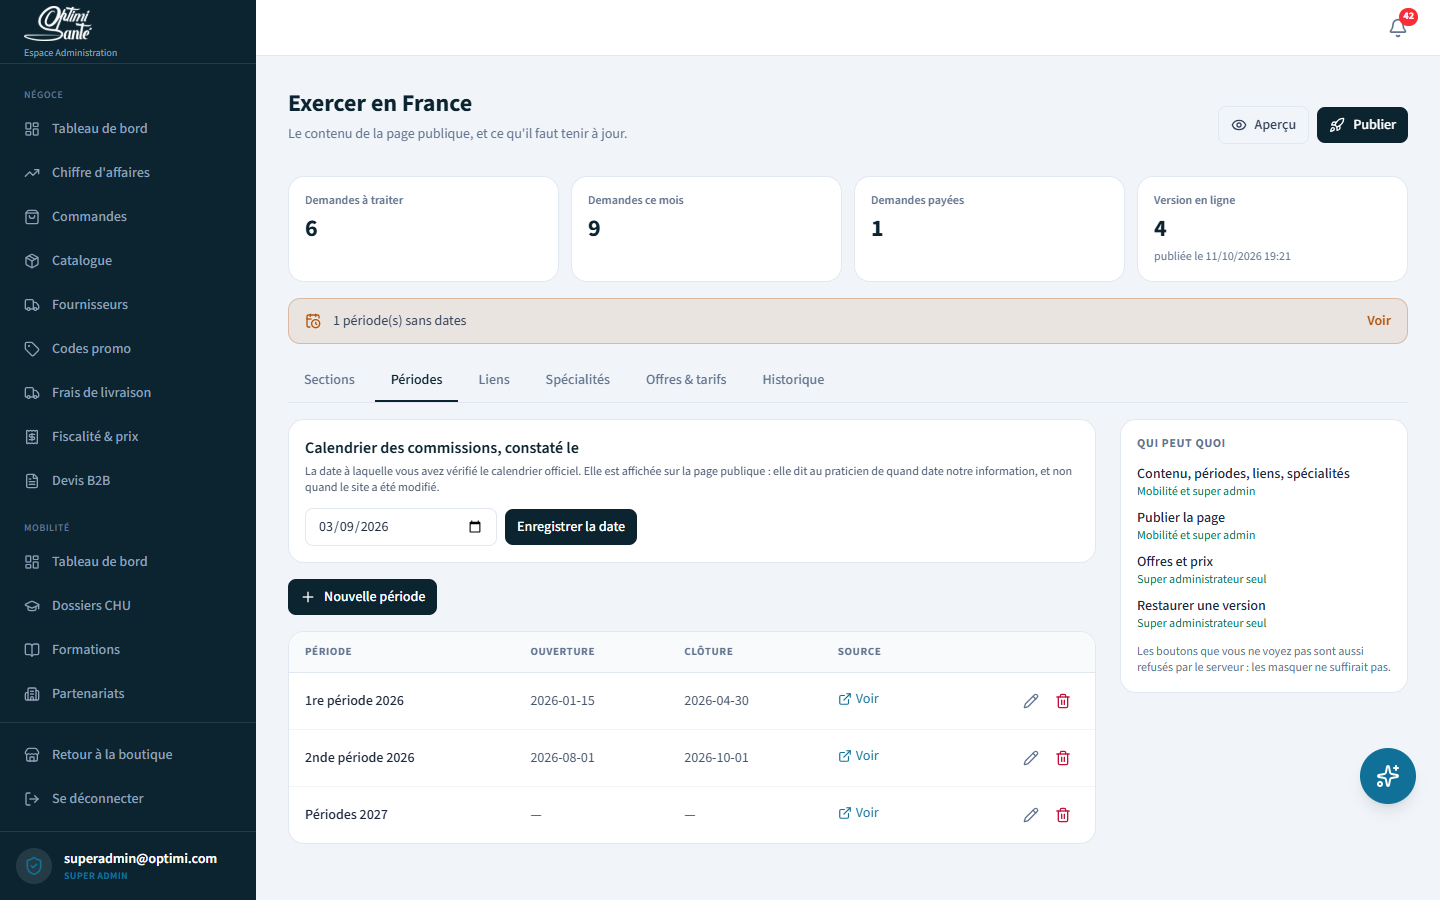
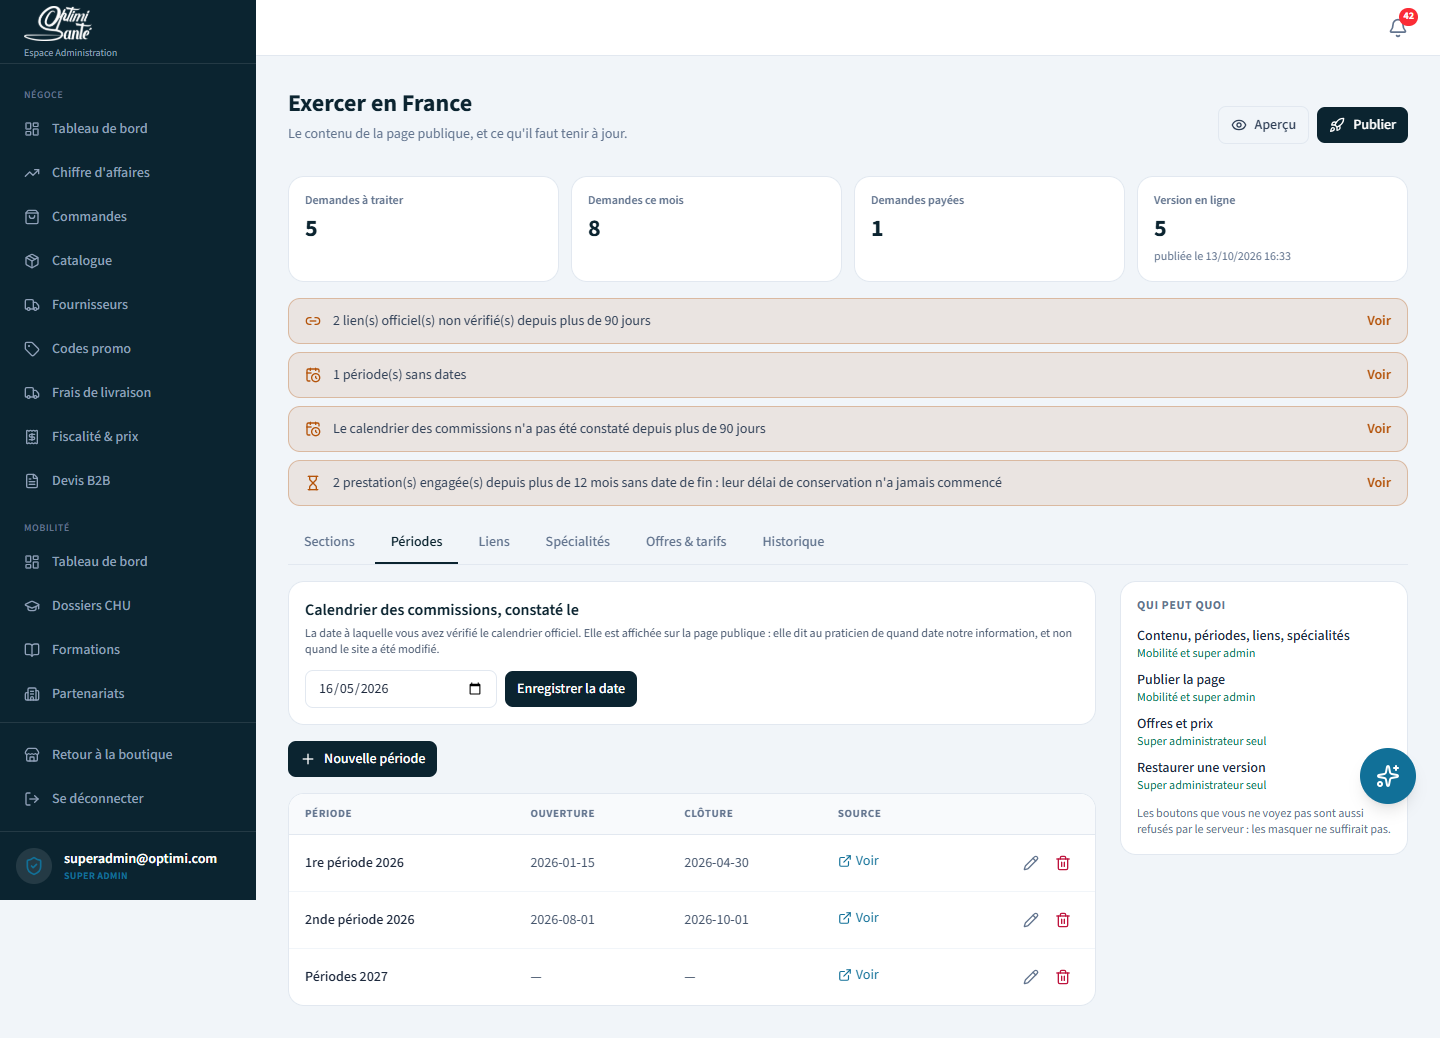
CGV restreintes au bon périmètre, rappels agissables, liste de mise en ligne
L'ARTICLE 3.8 NE PARLE PLUS QUE DE SON SUJET. Il excluait traduction, assurance
et logement au nom d'Optimi Santé tout entière — alors que les séjours de
formation proposent précisément ces options, via partenaires, et les facturent
(ServiceOptionType, TrainingServiceOption, PaymentType). Des CGV qui se
contredisent d'un article à l'autre ne protègent personne : c'est l'article qui
cède en cas de litige, pas la facture. Les exclusions portent désormais
explicitement sur le seul accompagnement « Exercer en France », et le disent.

LE QUATRIÈME RAPPEL CONDUIT QUELQUE PART. « 2 prestations sans date de fin »
désignait un problème sans donner le moyen d'agir : ces dossiers se corrigent
dans la fiche de chaque demande, et le rappel y mène maintenant. Pour que ce lien
ne soit pas décoratif, la page des demandes lit les filtres posés dans l'adresse
— sinon il aurait ouvert la liste entière, laissant refaire à la main ce que le
rappel venait de désigner. L'adresse sert à ENTRER dans la page ; les
modifications ultérieures de l'écran ne la retouchent pas.

LES QUATRE RAPPELS ONT ÉTÉ VUS ALLUMÉS. Ils ne s'affichent que s'ils sont actifs,
et un seul l'était : les trois autres n'avaient jamais été observés à l'écran.
Les données locales ont donc été forcées pour déclencher chacun, capture faite,
puis remises en état — un rappel qu'on n'a jamais vu s'afficher est un rappel
dont on ignore s'il fonctionne.

Liste de mise en ligne au README : publier après le seed et vérifier la page
[…]

diff --git a/frontend/src/pages/admin/AdminExercerEnFrancePage.tsx b/frontend/src/pages/admin/AdminExercerEnFrancePage.tsx
@@ -1,4 +1,5 @@
 import { useCallback, useEffect, useState } from 'react';
+import { Link } from 'react-router-dom';
 import {
   Loader2, Link2, CalendarClock, Hourglass, Rocket, History, RotateCcw, Lock, Eye,
 } from 'lucide-react';
@@ -164,19 +165,19 @@ export function AdminExercerEnFrancePage() {
       actif: indicateurs.liensNonVerifies > 0,
       icone: Link2,
       texte: `${indicateurs.liensNonVerifies} lien(s) officiel(s) non vérifié(s) depuis plus de 90 jours`,
-      vers: 'liens' as Onglet,
+      vers: 'liens' as Onglet, lien: null,
     },
     {
       actif: indicateurs.periodesSansDates > 0,
       icone: CalendarClock,
       texte: `${indicateurs.periodesSansDates} période(s) sans dates`,
-      vers: 'periodes' as Onglet,
+      vers: 'periodes' as Onglet, lien: null,
     },
     {
       actif: indicateurs.calendrierAVerifier,
       icone: CalendarClock,
       texte: "Le calendrier des commissions n'a pas été constaté depuis plus de 90 jours",
-      vers: 'periodes' as Onglet,
+      vers: 'periodes' as Onglet, lien: null,
     },
     {
       actif: indicateurs.prestationsSansFin > 0,
@@ -184,6 +185,9 @@ export function AdminExercerEnFrancePage() {
       texte: `${indicateurs.prestationsSansFin} prestation(s) engagée(s) depuis plus de 12 mois `
              + 'sans date de fin : leur délai de conservation n\'a jamais commencé',
       vers: null,
+      // Ces dossiers se corrigent dans la fiche de chaque demande, pas ici : le rappel
+      // y conduit, au lieu de signaler un problème sans donner le moyen d'agir.
+      lien: '/admin/demandes-accompagnement?statut=en_cours',
     },
   ].filter(r => r.actif) : [];
 
@@ -241,6 +245,12 @@ export function AdminExercerEnFrancePage() {
                           className="text-sm font-semibold text-warning hover:underline shrink-0">
                     Voir
                   </button>
+                )}
+                {r.lien && (
+                  <Link to={r.lien}
+                        className="text-sm font-semibold text-warning hover:underline shrink-0">
+                    Voir
+                  </Link>
                 )}
               </div>
             </li>

diff --git a/frontend/src/pages/admin/AdminDemandesAccompagnementPage.tsx b/frontend/src/pages/admin/AdminDemandesAccompagnementPage.tsx
@@ -1,5 +1,5 @@
 import { useCallback, useEffect, useState } from 'react';
-import { useNavigate, useParams } from 'react-router-dom';
+import { useNavigate, useParams, useSearchParams } from 'react-router-dom';
 import {
   Loader2, Inbox, Download, BellRing, Search, X, MessageCircle, Mail,
   ChevronLeft, ChevronRight, StickyNote, UserCheck,
@@ -55,13 +55,30 @@ function dateHeure(iso: string | null): string {
 export function AdminDemandesAccompagnementPage() {
   const { id: idUrl } = useParams<{ id: string }>();
   const navigate = useNavigate();
+  const [parametresUrl] = useSearchParams();
 
   const [demandes, setDemandes] = useState<DemandeResume[]>([]);
   const [page, setPage] = useState(0);
   const [pages, setPages] = useState(0);
   const [total, setTotal] = useState(0);
   const [chargement, setChargement] = useState(true);
-  const [filtres, setFiltres] = useState<FiltresDemandes>(FILTRES_VIDES);
+  /**
+   * Les filtres lus dans l'adresse, une seule fois.
+   *
+   * <p>Un rappel du tableau de bord renvoie ici avec un filtre déjà posé — « les prestations
+   * sans date de fin ». Sans cette lecture, le lien conduirait à la liste entière et
+   * l'administrateur devrait refaire à la main ce que le rappel venait de désigner. Les
+   * modifications ultérieures de l'écran ne retouchent pas l'adresse : elle sert à ENTRER
+   * dans la page, pas à la décrire.</p>
+   */
+  const [filtres, setFiltres] = useState<FiltresDemandes>(() => {
+    const depuisUrl: FiltresDemandes = {};
+    (['statut', 'offreCle', 'profession'] as const).forEach(champ => {
+      const valeur = parametresUrl.get(champ);
+      if (valeur) depuisUrl[champ] = valeur;
+    });
+    return Object.keys(depuisUrl).length > 0 ? depuisUrl : FILTRES_VIDES;
+  });
   // La recherche est saisie ici et n'est appliquée qu'à la validation : relancer une requête
   // à chaque frappe ferait travailler le serveur pour des mots jamais terminés.
   const [saisieRecherche, setSaisieRecherche] = useState('');

diff --git a/frontend/src/pages/legal/TermsPage.tsx b/frontend/src/pages/legal/TermsPage.tsx
@@ -261,12 +261,19 @@ export function TermsPage() {
         conseil et d'accompagnement administratif.
       </p>
       <p>
-        Elles <strong>ne comprennent ni préparation pédagogique</strong> (notamment banque de
-        questions, examens blancs ou cours), <strong>ni traduction</strong>,{' '}
-        <strong>ni assurance</strong>, <strong>ni fourniture de logement</strong>. Optimi Santé
-        n'est pas un organisme officiel et ne délivre aucune autorisation d'exercice : les
-        décisions relèvent exclusivement des autorités compétentes, et aucun résultat ne peut
-        être garanti.
+        <strong>Au titre de cet accompagnement</strong>, et sauf souscription distincte d'une
+        autre prestation d'Optimi Santé, les tarifs annoncés ne comprennent{' '}
+        <strong>ni préparation pédagogique</strong> (notamment banque de questions, examens
+        blancs ou cours), <strong>ni traduction</strong>, <strong>ni assurance</strong>,{' '}
+        <strong>ni fourniture de logement</strong>. Ces exclusions portent sur le seul
+        accompagnement « Exercer en France » et sont sans effet sur les services organisés
+        autour des séjours de formation, qui font l'objet de l'article 3 et peuvent comprendre
+        de telles options.
+      </p>
+      <p>
+        Optimi Santé n'est pas un organisme officiel et ne délivre aucune autorisation
+        d'exercice : les décisions relèvent exclusivement des autorités compétentes, et aucun
+        résultat ne peut être garanti.
       </p>
       <p>
         Les prix de ces prestations sont affichés <strong>toutes taxes comprises</strong>, en

diff --git a/README.md b/README.md
@@ -88,6 +88,17 @@ curl -s -X POST http://localhost:8080/api/v1/auth/login \
 curl -s -H "Authorization: Bearer <jeton>" http://localhost:8080/<route>
 ```
 
+### À faire lors de la mise en ligne
+
+- **Après le passage du seed en production, cliquer sur « Publier », puis vérifier
+  la page publique.** La page « Exercer en France » sert la version PUBLIÉE, et non
+  le contenu en base : tant que personne n'a publié, le seed est invisible pour le
+  visiteur — y compris les offres et leurs prix.
+- Compléter les CGV avec la mention de TVA définitive, une fois le régime arrêté
+  (prestations de conseil vendues à des praticiens établis hors UE). La rédaction
+  actuelle renvoie à la facture, ce qui reste vrai dans les deux cas.
+- Purger les données de test (ventes, inscriptions, demandes d'accompagnement).
+
 ### Deux règles qui ne se négocient pas
 
 - **Une migration appliquée en production ne se modifie plus jamais.** Un
